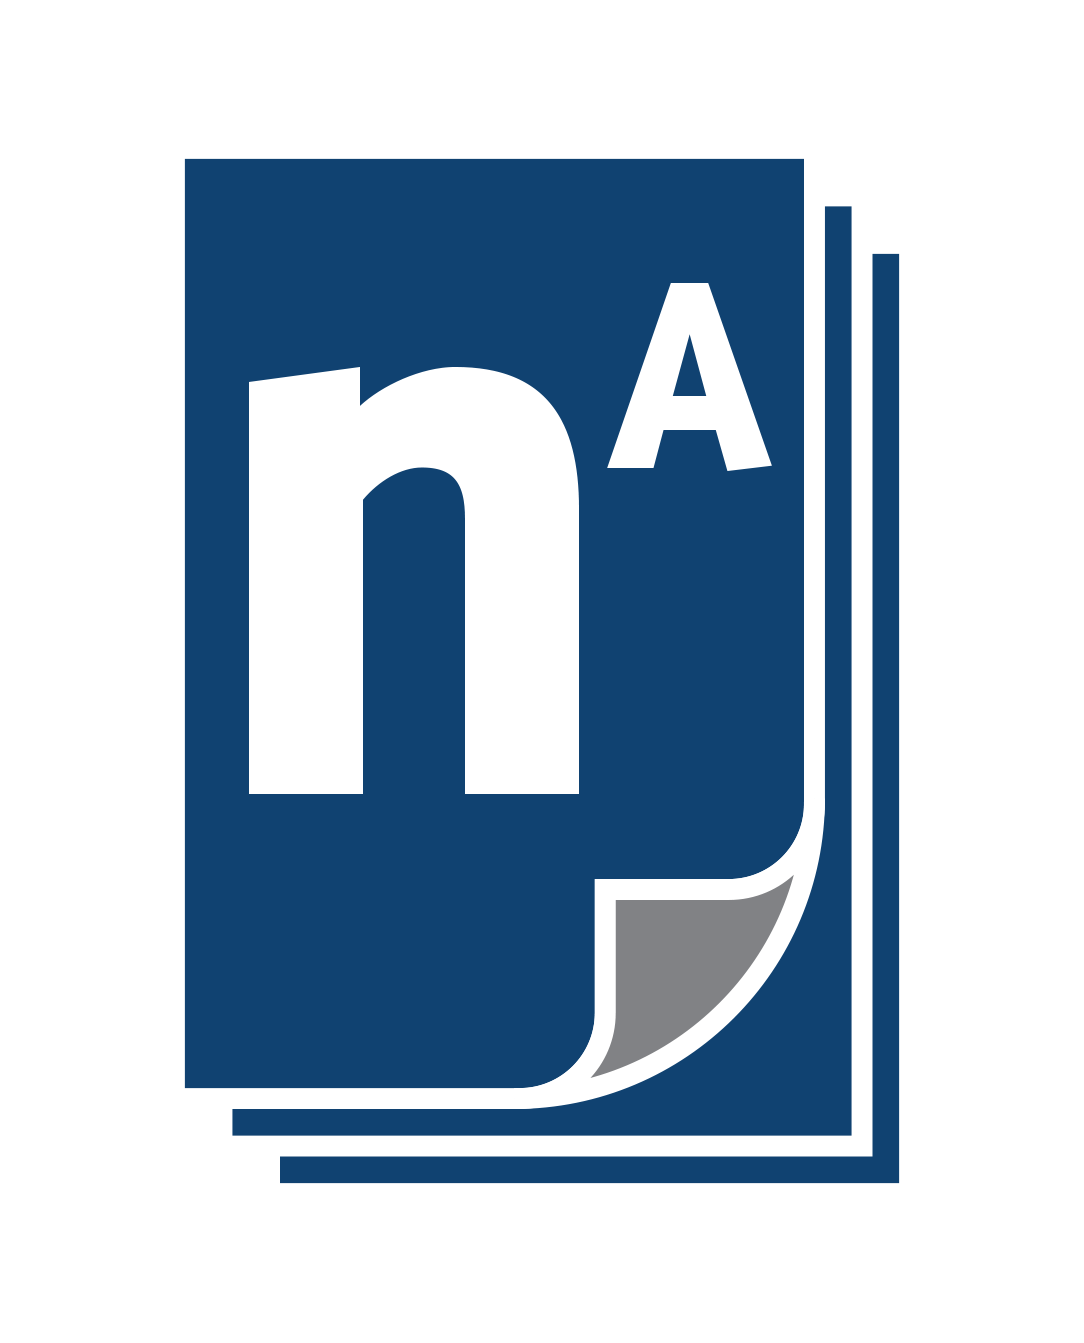
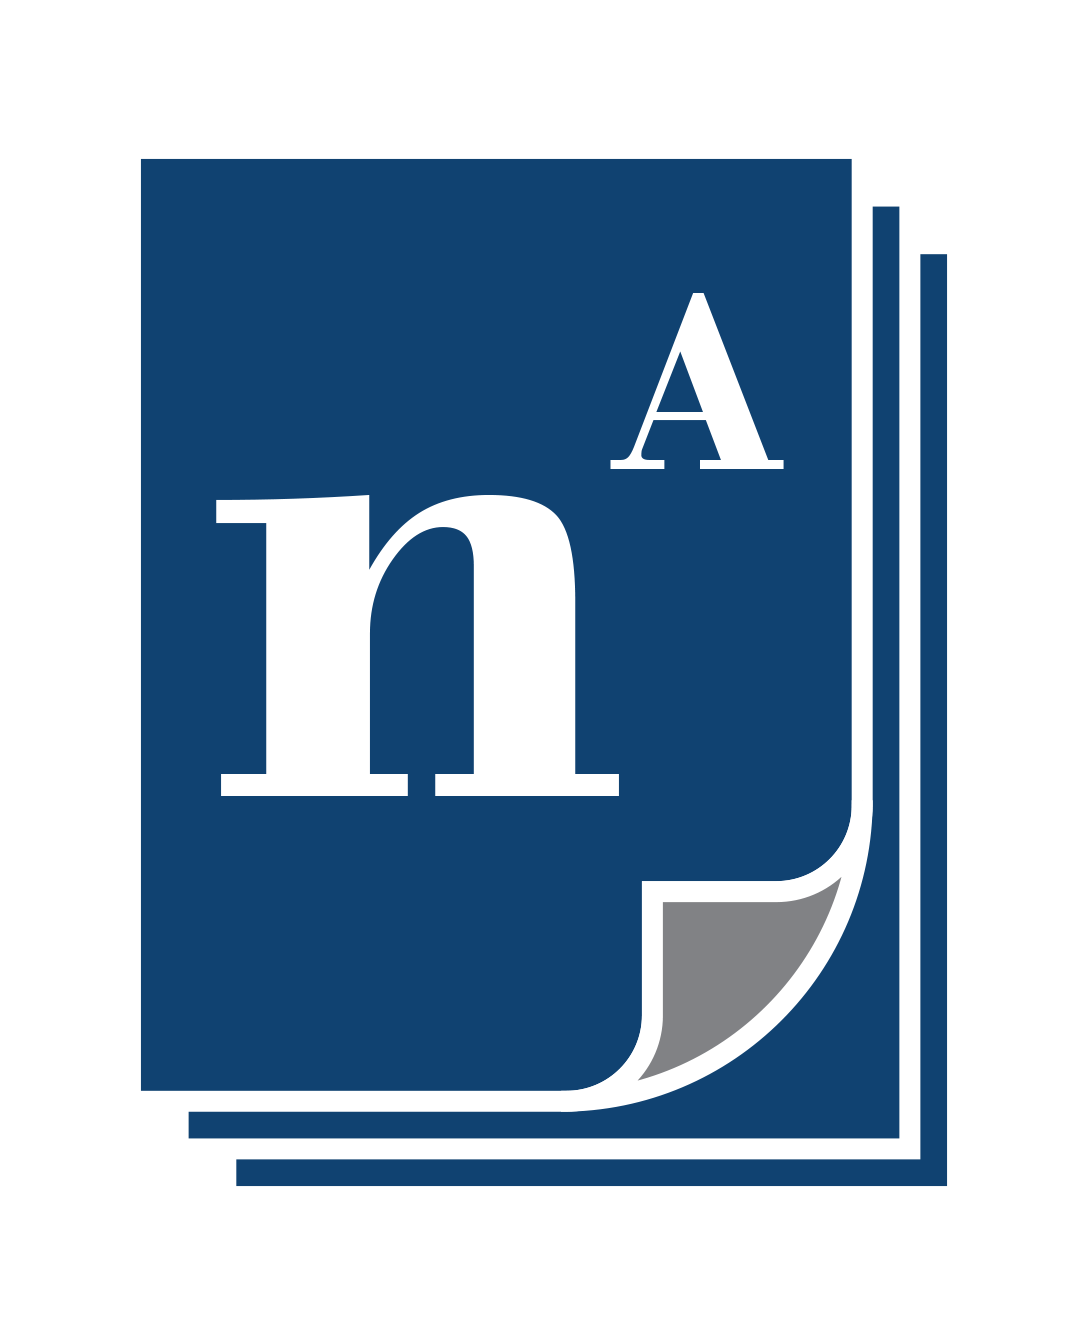
stuff

Changed region(s): [[0.1218, 0.1221, 0.8828, 0.8853]]

diff --git a/src/app/about-related-work/about-related-work.component.html b/src/app/about-related-work/about-related-work.component.html
@@ -1,14 +1,13 @@
-<div style="background-color: #033F72 ">
-  <div class="headliner">
-    <br>
-      <h1 class="miniText">
-        narrArquivo
-      </h1><br>
-      <h1 class="miniText2">
-        Crie e visualize  narrativas a partir de arquivos da web
-      </h1>
-    </div><br><br><br>
-</div><br>
+<div style="display:flex; justify-content: center; background-color: #033F72; ">
+
+  <br>
+    <!--<h1 class="miniText">
+      narrArquivo
+    </h1>-->
+    <img style="width: 300px; " src="../../assets/narrArquivogran.png"/>
+    <br/><br><br>
+</div>
+<div style="background-color:rgba(3, 63, 114, 1) "><br ></div><br>
 <br>
 
 <div style="display: flex; justify-content: center; flex-wrap: wrap;">
@@ -16,24 +15,26 @@
 
   <mat-card >
     <div class="sobreTitulo">
-      Referências académicas:
+      Referências académicas
     </div>
 
     <mat-divider></mat-divider>
     <mat-list >
+
       <p class="p1">Este projecto foi desenvolvido por investigadores afiliados ao Instituto Politécnico de Tomar, Ci2 - Centro de Investigação em Cidades Inteligentes, INESC TEC, Universidade do Porto, Universidade de Caën, Universidade da Beira Interior, Centro de Matemática e Aplicações (CMA – UBI) e Centro de Matemática e Aplicações (CMA), FCT Nova.
       </p>
       <p class="p1">
         Referências Bibliográficas: </p>
+        <p class="p1">
+          - Campos, R., Duque, J., Jorge, A., Dias, G., Nunes, C., (2021). Narrarquivo. Memória Descritiva. Prémio Arquivo.pt 2021. <a class="naoBranco" target="_blank" href="http://www.ccc.ipt.pt/~ricardo/ficheiros/narrarquiv,o.pdf"> <b>[pdf]</b> </a>
+        </p>
       <p class="p1">
         - Campos, R., Duque, J., Cândido, T., Mendes, J., Dias, G., Jorge, A., Nunes, C., (2021). Time-Matters: Temporal Unfolding of Texts. In: Hiemstra D., Moens M-F., Mothe J., Perego R., Potthast M., Sebastiani F. (eds), Advances in Information Retrieval. ECIR'21 (Lucca, Italy. March 28 - April 1). Lecture Notes in Computer Science, vol 12657, pp. 492 - 497. Springer. <a class="naoBranco"  href="https://link.springer.com/chapter/10.1007/978-3-030-72240-1_53" target="_blank"><b>[pdf]</b></a><a  class="naoBranco" target ="_blank"href="https://youtu.be/Q8yT4aVM_Mw"><b> [video]</b></a> <a class="naoBranco"  target="_blank" href="http://www.ccc.ipt.pt/~ricardo/ficheiros/ECIR2021Poster.pdf"><b> [poster]</b></a>
       </p>
       <p class="p1">
         - Campos, R., Dias, G., Jorge, A., Nunes, C. (2017). Identifying Top Relevant Dates for Implicit Time Sensitive Queries. In Information Retrieval Journal. Springer, Vol 20(4), pp 363-398. <a class="naoBranco" target="_blank" href="https://link.springer.com/article/10.1007/s10791-017-9302-1"> <b>[pdf]</b> </a>
       </p>
-      <p class="p1">
-        - Campos, R., Duque, J., Jorge, A., Dias, G., Nunes, C., (2021). Narrarquivo. Memória Descritiva. Prémio Arquivo.pt 2021. <a class="naoBranco" target="_blank" href="http://www.ccc.ipt.pt/~ricardo/ficheiros/narrarquiv,o.pdf"> <b>[pdf]</b> </a>
-      </p>
+
 
 
     </mat-list>
@@ -52,7 +53,7 @@
     </div>
 
     <mat-divider></mat-divider><br>
-    <p class="p1">Ricardo Campos e Alípio Jorge foram financiados pelo FEDER - Fundo Europeu de Desenvolvimento Regional através do Programa Operacional Regional do Norte de Portugal (NORTE 2020), no âmbito do PORTUGAL 2020 e por Fundos Nacionais através da agência de financiamento portuguesa FCT - Fundação para a Ciência e a Tecnologia ao abrigo do projeto PTDC/CCI-COM/31857/2017 (NORTE-01-0145-FEDER-03185). Este financiamento enquadra-se na linha de pesquisa do projeto Text2Story <u><b><a class="naoBranco" target="_blank" href="https://text2story.inesctec.pt/">(https://text2story.inesctec.pt/)</a></b></u>. Célia Nunes foi financiada pela Fundação para a Ciência e a Tecnologia ao abrigo dos projetos UIDB/00212/2020</p>
+    <p class="p1">Ricardo Campos e Alípio Jorge foram financiados pelo FEDER - Fundo Europeu de Desenvolvimento Regional através do Programa Operacional Regional do Norte de Portugal (NORTE 2020), no âmbito do PORTUGAL 2020 e por Fundos Nacionais através da agência de financiamento portuguesa FCT - Fundação para a Ciência e a Tecnologia ao abrigo do projeto PTDC/CCI-COM/31857/2017 (NORTE-01-0145-FEDER-03185). Este financiamento enquadra-se na linha de pesquisa do projeto Text2Story <u><b><a class="naoBranco" target="_blank" href="https://text2story.inesctec.pt/">(https://text2story.inesctec.pt/)</a></b></u>. Célia Nunes foi financiada pela Fundação para a Ciência e a Tecnologia ao abrigo dos projetos UIDB/00212/2020.</p>
     <br>
       <br>
       <div style="display: flex;justify-content: space-evenly;flex-wrap:  wrap;margin-right: 5px;margin-left: 5px;">
@@ -68,7 +69,7 @@
     <br>
     <mat-divider></mat-divider><br><br><br>
     <div style="display: flex;justify-content: space-evenly;flex-wrap:wrap;margin-right: 5px;">
-      <div style="margin-right: 5px;" *ngFor="let item of data2">
+      <div style="margin-right: 6px;" *ngFor="let item of data2">
         <a class="example-card cardSmall"  target="_blank" href="{{item.link}}">
 
           <img mat-card-image  class="example-card fotoCard"  src="../../assets/{{item.fotoGrande}}" alt="{{item.title}}">

diff --git a/src/app/exctraction/exctraction.component.html b/src/app/exctraction/exctraction.component.html
@@ -1,28 +1,20 @@
-<!--<script src="https://code.highcharts.com/highcharts.js"></script>
-<script src="https://code.highcharts.com/modules/exporting.js"></script>
-<script src="https://code.highcharts.com/modules/export-data.js"></script>
-<script src="https://code.highcharts.com/modules/accessibility.js"></script>-->
+<div style="display:flex; justify-content: center; background-color: #033F72; ">
 
-
- <!---->
- <div style="background-color: #033F72 ">
-  <div class="headliner">
-    <br>
-      <h1 class="miniText">
-        narrArquivo
-      </h1><br>
-      <h1 class="miniText2">
-        Narrativas a partir da web
-      </h1>
-    </div><br><br><br>
-</div><br>
+  <br>
+    <!--<h1 class="miniText">
+      narrArquivo
+    </h1>-->
+    <img style="width: 300px; " src="../../assets/narrArquivogran.png"/>
+    <br/><br><br>
+</div>
+<div style="background-color:rgba(3, 63, 114, 1) "><br ></div><br>
   <div *ngIf="result else textBox" >
 
     <div class="col-md-11 col-sm-8 col-xs-6 my-col2">
       <!--FRASE DOS TEMPOS DE EXECUÇÃO-->
       <span title=""><a class="frase1"></a></span>
       <!--FRASE DOS TEMPOS DE EXECUÇÃO-->
-        <div>
+
       <div *ngIf="!result else graficos">
         <h1>Não foram encontrados dados, em caso de dúvida, a culpa é da API 🤣</h1>
       </div>
@@ -50,7 +42,7 @@
                 <!--ESTA AQUI O BOTAO NOVO, DEPOIS APAGA ESTE COMENTARIO-->
                 <mat-slide-toggle class="afterAnnotated" [checked]="hiddenoptionKW" color="warn" (toggleChange)="toggleKeywords()">Keywords</mat-slide-toggle>
                 <br>
-                <mat-slide-toggle class="afterAnnotated" (toggleChange)="toggleRel()" [checked]="showOnlyRel" color="warn" >Apenas datas relevantes</mat-slide-toggle>
+                <mat-slide-toggle  *ngIf="datasetFixed.length != datasetFixed2.length" class="afterAnnotated" (toggleChange)="toggleRel()" [checked]="showOnlyRel" color="warn" >Apenas datas relevantes</mat-slide-toggle>
                 <!--EM CIMA-->
                 <br>
                 <br>
@@ -116,8 +108,8 @@
 
 
           </mat-tab-group>
-          <div class="col-lg-12 text-right" style="z-index: 10;margin-top: -65px;">
-            <button  mat-fab (click)="goBack()" class="btn btn-primary"><i class="fas fa-undo-alt"></i></button>
+          <div class="col-lg-12 text-right" >
+            <button style="z-index: 10;margin-top: -65px;" mat-fab (click)="goBack()" class="btn btn-primary"><i class="fas fa-undo-alt"></i></button>
 
           </div>
         </mat-card>
@@ -125,7 +117,6 @@
 
 
         </ng-template>
-      </div>
 
 
   </div>
@@ -135,7 +126,7 @@
 
   <br/>
   <form (submit)="getKeyword($event)">
-      <div class="col-md-11 col-sm-8 col-xs-6 my-col">
+      <div class="col-md-11 col-sm-8 col-xs-6 my-col" style="margin-top: -4px;">
 
          <div class="col-lg-12">
             <div class="form-group">
@@ -187,10 +178,15 @@
 
           <div class="form-group"  style="z-index: 10;margin-top:-95px ;margin-right:6px ">
             <div class="col-lg-12 text-right">
+              <button *ngIf="!loading" style="margin-right: 4px;" class='{{loading?"viewable": "nonviewable"}}' mat-mini-fab class="btn btn-primary" type="button" [disabled]="loading" (click)="deleteContent($event)"><i class="fas fa-trash" ></i>
+                <div class='{{loading?"viewable": "nonviewable"}}'><span class="spinner-border spinner-border-sm" role="status" aria-hidden="true"></span>
+                  </div>
+              </button>
               <button  mat-mini-fab class="btn btn-primary" type="submit" [disabled]="loading" ><i class="fas fa-book-open" ></i>
                 <div class='{{loading?"viewable": "nonviewable"}}'><span class="spinner-border spinner-border-sm" role="status" aria-hidden="true"></span>
                   </div>
               </button>
+
 
              </div>
           </div>

diff --git a/src/app/about-people/about-people.component.html b/src/app/about-people/about-people.component.html
@@ -1,17 +1,15 @@
-<!--<p>
-  Esta plataforma foi desenvolvida por Ricardo Campos, investigador do LIAAD INESC TEC, do Ci2 - Centro de Investigação em Cidades Inteligentes e docente do Instituto Politécnico de Tomar (IPT)], Jorge Duque, aluno do Instituto Politécnico de Tomar (IPT), Alípio Jorge, coordenador do LIAAD INESC TEC e docente na Faculdade de Ciências da Universidade do Porto (UP), Gaël Dias, docente da Universidade de Caën, e Célia Nunes, docente da Universidade da Beira Interior e investigadora do Centro de Matemática e Aplicações (CMA – UBI).
-</p>-->
-<div style="background-color: #033F72 ">
-  <div class="headliner">
-    <br>
-      <h1 class="miniText">
-        narrArquivo
-      </h1><br>
-      <h1 class="miniText2">
-        Crie e visualize  narrativas a partir de arquivos da web
-      </h1>
-    </div><br><br><br>
-</div><br>
+<div style="display:flex; justify-content: center; background-color: #033F72; ">
+
+  <br>
+    <!--<h1 class="miniText">
+      narrArquivo
+    </h1>-->
+    <img style="width: 300px; " src="../../assets/narrArquivogran.png"/>
+    <br/><br><br>
+</div>
+<div style="background-color:rgba(3, 63, 114, 1) "><br ></div>
+
+<br>
 <br>
 
 <div style="display: flex; justify-content: center;">
@@ -27,7 +25,7 @@
       <p class="p1">Esta plataforma foi desenvolvida por Ricardo Campos, docente do Instituto Politécnico de Tomar (IPT) e investigador do INESC TEC e do Ci2 - Centro de Investigação em Cidades Inteligentes, Jorge Duque, aluno do Instituto Politécnico de Tomar (IPT), Alípio Jorge, docente na Faculdade de Ciências da Universidade do Porto (UP) e coordenador do LIAAD INESC TEC, Gaël Dias, docente da Universidade de Caën, e Célia Nunes, docente da Universidade da Beira Interior (UBI), investigadora do Centro de Matemática e Aplicações (CMA – UBI) e colaboradora do Centro de Matemática e Aplicações (CMA), FCT Nova
       </p>
       <p class="p1">
-        O logótipo do narrArquivo foi desenvolvido por Rúben Marques Pedro, designer de produto e gráfico. Parte do seu portofólio pode ser visto em: <u><b><a href="https://www.coroflot.com/ruben_m_pedro" class="naoBranco"  target="_blank">Ruben Marques Pedro, Product & Graphic Designer in Porto, Portugal</a></b></u>
+        O logótipo do narrArquivo foi desenvolvido por Rúben Marques Pedro, designer de produto e gráfico. Parte do seu portofólio pode ser visto em: <a href="https://www.coroflot.com/ruben_m_pedro" class="naoBranco"  target="_blank">Ruben Marques Pedro, Product & Graphic Designer in Porto, Portugal</a>
       </p>
       <p class="p1">
         Uma versão preliminar do narrarquivo, denominada time-matters, contou com a participação do aluno <a target="_blank" class="naoBranco" href="https://www.linkedin.com/in/tiago-c%C3%A2ndido-4590951a8/">Tiago Cândido</a>. A versão python do pacote de software Time-Matters foi desenvolvida pelo aluno <a class="naoBranco" target="_blank" href="https://www.linkedin.com/in/jorge-mendes-75733815a/">Jorge Mendes</a>.

diff --git a/src/app/query/query.component.html b/src/app/query/query.component.html
@@ -19,7 +19,7 @@
                 <app-frame [docOrSentence]="options.docOrSentence" [argumentos]="options.result" [showOnlyRelevants]="showOnlyRel" [keywordsMatter]="withKeywords"   class="result"></app-frame>
                 <hr>
                 <div class="dateScoreColors">
-                  <span>Escala Likert de <i>{{!showOnlyRel?"5": "4"}}</i> cores para representar a importância das expressões temporais:   </span>
+                  <span>Escala Likert de <i>{{!showOnlyRel?"5": "3"}}</i> cores para representar a importância das expressões temporais:   </span>
                   <span class='{{!showOnlyRel?"black": "nonviewable"}}'>[0; 0.35]</span>
                   <span class='{{!showOnlyRel?"green": "nonviewable"}}'>]0.35; 0.5]</span>
                   <span class="blue">]0.5; 0.7]</span>

diff --git a/src/app/querysingledoc/querysingledoc.component.html b/src/app/querysingledoc/querysingledoc.component.html
@@ -17,7 +17,7 @@
       <div class="col-lg-12 ">
         <div class="form-group"  style="display:flex;justify-content: center;">
           <div class="example-almost-width">
-            <input  style="margin-top: -25px;" [disabled]="loading" value="{{inpu?inpu:url}}" (change)="setURL($event)" type="text" class="form-control" id="narrativaURL"  placeholder="Insira URL...">
+            <input  style="background-color: white;margin-top: -25px;" [disabled]="loading" value="{{inpu?inpu:url}}" (change)="setURL($event)" type="text" class="form-control" id="narrativaURL"  placeholder="Insira URL...">
           </div>
 
           <br>

diff --git a/src/styles.scss b/src/styles.scss
@@ -21,7 +21,7 @@ $candy-app-theme: mat-light-theme($candy-app-primary, $candy-app-accent, $candy-
   margin-right: 0px !important;
 }
 .black{
-  background-color:rgb(114, 3, 3) !important;
+  background-color:rgb(192, 35, 35) !important;
   margin-left: 0px !important;
   margin-right: 0px !important;
 }
@@ -32,7 +32,7 @@ $candy-app-theme: mat-light-theme($candy-app-primary, $candy-app-accent, $candy-
 
 }
 .green{
-  background-color:rgb(192, 35, 35) !important;
+  background-color:rgb(114, 3, 3) !important;
   margin-left: 0px !important;
   margin-right: 0px !important;
 

diff --git a/src/app/home/home.component.html b/src/app/home/home.component.html
@@ -52,6 +52,9 @@
       <div class="divider"></div>
       <a target="_blank" href="https://github.com/liaad/time-matters"><button mat-menu-item class="mat-menu-item">
         GitHub <i class="fab fa-github" aria-hidden="true"></i>
+      </button></a><div class="divider"></div>
+      <a target="_blank" href="https://www.youtube.com/watch?v=Q8yT4aVM_Mw&feature=youtu.be"><button mat-menu-item class="mat-menu-item">
+        Video <i class="fas fa-video" aria-hidden="true"></i>
       </button></a>
 
 

diff --git a/src/app/services/timeline.service.ts b/src/app/services/timeline.service.ts
@@ -6,6 +6,7 @@ import {
   HttpHeaders,
   HttpErrorResponse,
 } from "@angular/common/http";
+import { Router } from "@angular/router";
 
 export interface ReceivedData {
   res: any;
@@ -17,7 +18,7 @@ export interface ReceivedData {
 })
 export class TimelineService {
   url: string;
-  constructor(private http: HttpClient) {
+  constructor(private http: HttpClient, private router: Router) {
     this.url = "https://tm-websuiteapps.ipt.pt/timematters";
   }
 
